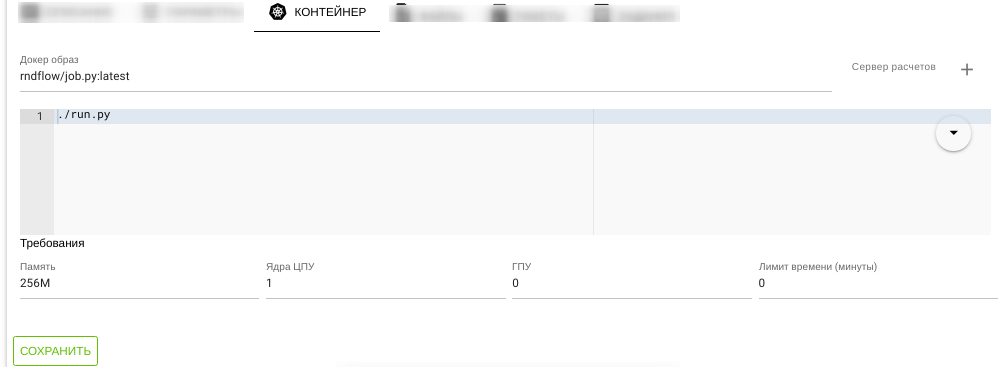
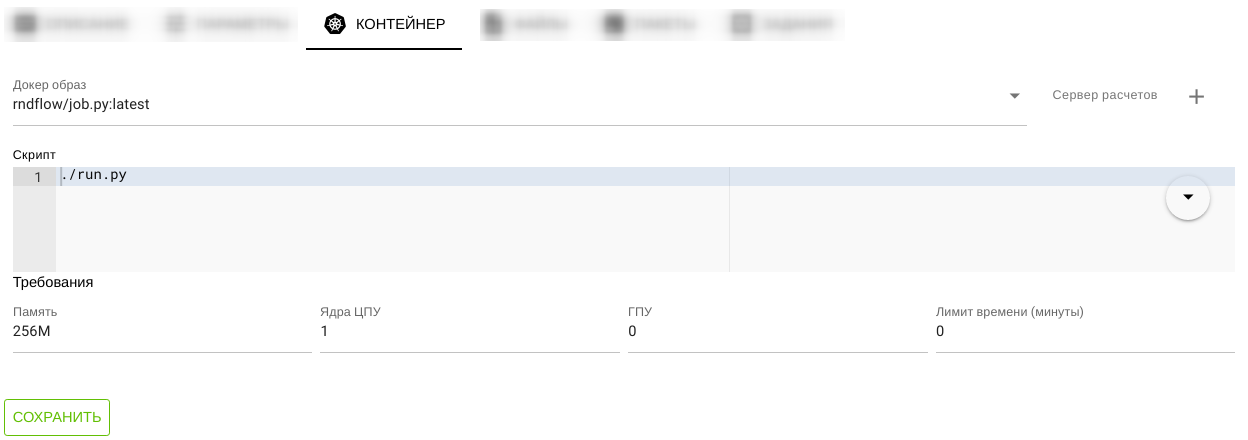
Add docker create instructions and description

diff --git a/src/.vuepress/config.js b/src/.vuepress/config.js
@@ -73,6 +73,7 @@ module.exports = {
             '/desc/project_user',
             '/desc/secrets',
             '/desc/api_keys',
+            '/desc/docker',
             '/desc/interface',
             '/desc/executor',
             '/desc/s3',
@@ -93,6 +94,7 @@ module.exports = {
             '/instructions/interface',
             '/instructions/executor',
             '/instructions/s3',
+            '/instructions/docker',
             '/instructions/payplan',
             '/instructions/video',
             '/instructions/examples',
@@ -111,10 +113,10 @@ module.exports = {
       {
         locales: {
           '/': {
-            placeholder: 'Поиск'
-          }
-        }
-      }
-    ]
-  ]
+            placeholder: 'Поиск',
+          },
+        },
+      },
+    ],
+  ],
 };

diff --git a/src/instructions/docker.md b/src/instructions/docker.md
@@ -1,0 +1,164 @@
+# Контейнеры
+
+## Создание Докер образа в рабочем пространстве
+
+Для создания [Докер образа][1] необходимо:
+
+- [Перейти][2] в [рабочее пространство][3]
+
+- Перейти на вкладку <span class='iconify-inline' data-icon='mdi:cogs'></span> **РЕСУРСЫ**
+
+  ![Docker images](/images/common/dashboard_user_workspace_resources_new.png)
+
+- Напротив надписи <span class="iconify-inline" data-icon="mdi:docker"></span> **Docker-образы** нажать на кнопку <span class="iconify-inline" data-icon="mdi:plus"></span> <span class='iconify-inline' data-icon='ph:number-circle-one-fill' style="color: red"></span> и далее набрать полное название Докер образа <span class='iconify-inline' data-icon='ph:number-circle-two-fill' style="color: red"></span>.
+
+  ![Docker image add](/images/common/dashboard_user_workspace_resources_add_docker.png)
+
+::: tip <span class='iconify' data-icon='mdi:information' style='color: #42b983; font-size: 24px;'></span>
+Примеры названий:
+
+- `docker.io/myrepo/myimagename:latest` - при размещении образа в общем реестре на [Dockerhub](https://hub.docker.com/)
+- `myrepo/myimagename:latest` - при размещении образа в общем реестре на [Dockerhub](https://hub.docker.com/)
+- `mycompanyregister.com/myrepo/myimagename:latest` - при размещении образа в собственном реестре
+  :::
+
+::: warning <span class='iconify' data-icon='emojione-v1:warning' style='color: #e7c000; font-size: 24px;'></span>
+При размещении образа на [Dockerhub](https://hub.docker.com/) или на собственном реестре необходимо предоставление публичных прав на чтение образа.
+:::
+
+::: tip <span class='iconify' data-icon='mdi:information' style='color: #42b983; font-size: 24px;'></span>
+В тестовых целях возможно использовать локальный публичный реестре платформы. В этом случае названия Докер образов будут иметь вид:
+
+`rep.rndflow.com/myrepo/myimagename:latest`
+:::
+
+::: danger <span class='iconify' data-icon='gg:danger' style='color: #cc0000; font-size: 24px;'></span>
+Для Докер образа действуют следующие правила:
+
+- Название образа должно быть уникальным для **всей** платформы.
+- Права пересборки образа имеет только владелец рабочего пространства, в котором он был создан.
+  :::
+
+- После нажатия кнопки будет создана [плитка][4] Докер образа
+  ![Docker image add](/images/common/dashboard_user_workspace_resources_docker_not_build.png)
+
+- После щелчка по плитке Докер образа будет открыто окно редактора
+
+  ![Docker image editor](/images/common/dashboard_user_workspace_resources_docker_editor_not_build.png)
+
+- В **Параметры сборки** выбрать **ЛОКАЛЬНАЯ ПАПКА**.
+
+- Ввести [команды создания образа][7] в редакторе **Dockerfile**.
+
+  Смотреть примеры в инструкции [Создание Докер образа вне платформы][5]
+
+- Нажать кнопку **СОХРАНИТЬ**.
+
+- Нажать кнопку **СОБРАТЬ**.
+
+- Ввести при необходимости логин и пароль к реестру (для публичного реестра платформы можно не вводить).
+
+  ![Docker image editor](/images/common/dashboard_user_workspace_resources_docker_editor_auth.png)
+
+- Нажать кнопку **СОБРАТЬ**.
+
+- Будет запущена сборка
+
+  ![Docker image build process](/images/common/dashboard_user_workspace_resources_docker_editor_build.png)
+
+- После успешного завершения редактор примет вид
+
+  ![Docker image editor after build](/images/common/dashboard_user_workspace_resources_docker_editor_аfter_build.png)
+
+- На вкладке <span class='iconify-inline' data-icon='mdi:cogs'></span> **РЕСУРСЫ** в разделе <span class="iconify-inline" data-icon="mdi:docker"></span> **Docker-образы** соответстующая плитка примет вид:
+
+  ![Docker image after build](/images/common/dashboard_user_workspace_resources_docker_after_build.png)
+
+  **Использование внешнего Git репозитория с файлами сборки**
+
+  - В **Параметры сборки** выбрать **GIT РЕПОЗИТОРИЙ**.
+  - Ввести URL публичного репозитория с файлами сборки Докер образа.
+  - Нажать кнопку **СОХРАНИТЬ**.
+  - Нажать кнопку **СОБРАТЬ**.
+
+  ![Docker image editor git context](/images/common/dashboard_user_workspace_resources_docker_editor_git.png)
+
+## Создание Докер образа вне платформы
+
+1. Зарегистрироваться на [публичном Докер реестре](https://hub.docker.com/).
+2. Создать новый репозиторий _imagename_
+
+   _imagename_ - произвольное название: mycoolimage или python-projectXX
+
+3. Установить [Докер приложение](https://www.docker.com/) на локальный компьютер. Пользователи Windows могут установливать [Docker Desktop](https://www.docker.com/products/docker-desktop).
+
+   Также можно использовать публичные сервисы работы с Докер образами, например [Play with Docker](https://labs.play-with-docker.com/).
+
+4. Создать новый _Dockerfile_ файл на основе [стандартных образов][6].
+
+   **Вариант 1**
+
+   Для создания собственного образа необходимо использовать базовый образ [rndflow/job.py](https://hub.docker.com/r/rndflow/job.py/tags?page=1&ordering=last_updated).
+
+   ```dockerfile:no-line-numbers
+   FROM docker.io/rndflow/job.py
+   RUN ...
+   COPY ...
+   ```
+
+   **Вариант 2**
+
+   В случае необходимости использовать образ операционной системы отличный от используемого в [rndflow/job.py](https://hub.docker.com/r/rndflow/job.py/tags?page=1&ordering=last_updated) необходимо самостоятельно устанавливать библиотекy [job.py](https://github.com/rndflow/rndflow-job-py). Также необходимо установить библиотеки moreutils,curl, zlib-dev, libjpeg-dev.
+
+   ```dockerfile:no-line-numbers
+   FROM ...
+   ...
+   RUN apt-get update && apt-get install -y moreutils curl zlib1g-dev libjpeg-dev
+   RUN cd /opt/ && curl -L https://github.com/rndflow/rndflow-job-py/archive/refs/heads/master.tar.gz | tar -xvz && \
+   pip3 install -r rndflow-job-py-master/requirements.txt && pip3 install ./rndflow-job-py-master && rm -rf rndflow-job-py-master
+   ...
+   ```
+
+   Если при этом требуется поддержка интерактивного сервера [Jupyter](https://jupyter.org/), то необходимо установить:
+
+   ```dockerfile:no-line-numbers
+   RUN pip3 install notebook jupytext
+   ```
+
+   **Вариант 3**
+
+   Если требуется поддержка счета на AMD или NVIDIA GPU картах, то необходимо использовать соответствующие базовые образы.
+
+5. Собрать образ из _Dockerfile_ (если используется _podman_, то заменить _docker_ на _podman_).
+
+   В папке с _Dockerfile_: `docker build -t user/imagename:1.0 .` или `docker build -t user/imagename:1.0 -f _Dockerfile_ .`
+
+   Здесь _user/imagename_ - пользователь реестра/название образа (репозитория реестра из пункта _2_ ), _:1.0_ - версия.
+
+   ::: warning <span class="iconify" data-icon="emojione-v1:warning" style="color: #e7c000; font-size: 24px;"></span>
+   При пересборке образа без изменения _Dockerfile_ файла необходимо очистить кеш предыдущей сборки. Например, можно удалить последний образ: `docker rmi user/imagename:1.0`
+
+   или осуществлять сборку без использования кеша: `docker build -t user/imagename:1.0 . --no-cache`
+   :::
+
+6. Проверить появление образа: `docker image ls`
+7. Тестовый запуск: `docker run -it --rm imagename`
+8. Загрузить новый образ на [публичный Докер реестр](https://hub.docker.com/)
+
+   - Подключиться к реестру : `docker login -u user -p **********`
+
+     или чтобы не оставлять пароль в истории команд : `docker login -u user`
+
+   - Загрузить образ в реестр: `docker push user/imagename:1.0`
+
+9. Если необходимо удалить ошибочно загруженный образ из реестра: [Инструкция удаления образа](https://stackoverflow.com/questions/30680703/remove-an-image-tag-from-docker-hub/60112300#60112300)
+
+10. Если сборка идет на стороннем сервисе, то рекомендуется отсоединиться от реестра: `docker logout`
+
+[1]: /docs/desc/docker.md
+[2]: /docs/instructions/workspace.html#переход-в-рабочее-пространство
+[3]: /docs/desc/workspace.md
+[4]: /docs/desc/docker.md#плитка
+[5]: #создание-докер-образа-вне-платформы
+[6]: /docs/dev/docker.md
+[7]: https://docs.docker.com/engine/reference/builder/

diff --git a/src/desc/docker.md b/src/desc/docker.md
@@ -1,0 +1,83 @@
+# Контейнеры
+
+Платформа поддерживает возможность создания и пересборка Докер образов ([Docker images][1]).
+
+Докер образы создаются на кластере платформы и могут быть загружены на внешние реестры ([registries][1]) и внутрение реестры.
+
+Докер образы относятся к [рабочему пространству][2].
+
+::: danger <span class='iconify' data-icon='gg:danger' style='color: #cc0000; font-size: 24px;'></span>
+Для Докер образа действуют следующие правила:
+
+- Название образа должно быть уникальным для **всей** платформы.
+- Права пересборки образа имеет только владелец рабочего пространства, в котором он был создан.
+  :::
+
+Управление Докер образами происходит на вкладке <span class='iconify-inline' data-icon='mdi:cogs'></span> **РЕСУРСЫ** в разделе <span class="iconify-inline" data-icon="mdi:docker"></span> **Docker-образы** соответствующего рабочего пространства.
+
+![Docker images list](/images/common/dashboard_user_workspace_resources_dockers.png)
+
+Использование Докер образа происходит на вкладке <span class='iconify-inline' data-icon='mdi:kubernetes'></span> [**КОНТЕЙНЕР**][3] панели [расчетного узла][4] в выпадающем списке параметра **Докер образ**.
+
+![Docker images list](/images/common/node_panel_container_dockerslist.png)
+
+## Плитка
+
+![Docker image after build](/images/common/dashboard_user_workspace_resources_docker_after_build.png)
+
+Структура:
+
+- Статус сборки
+  - <span class='iconify-inline' data-icon='mdi:check-circle' style='color: green'></span> - последние изменения образа собраны
+  - <span class='iconify-inline' data-icon='mdi:alert-circle' style='color: red'></span> - образ не собран
+  - <span class='iconify-inline' data-icon='mdi:update' style='color: orange'></span> - образ был изменен после сборки и после этого не было успешных сборок
+- Название образа
+- Описание образа
+- <span class='iconify-inline' data-icon='mdi:delete'></span> Кнопка удаления
+
+## Редактор
+
+Редактор открывается по щелчку по плитке Докер образа.
+
+![Docker image editor after build](/images/common/dashboard_user_workspace_resources_docker_editor_аfter_build.png)
+
+Структура
+
+- Редактируемое название образа
+- <span class='iconify-inline' data-icon='mdi:delete'></span> Кнопка удаления образа
+- Редактируемое описание образа
+- Статус
+  - <span class='iconify-inline' data-icon='mdi:check-circle' style='color: green'></span> - последние изменения образа собраны
+  - <span class='iconify-inline' data-icon='mdi:alert-circle' style='color: red'></span> - образ не собран
+  - <span class='iconify-inline' data-icon='mdi:update' style='color: orange'></span> - образ был изменен после сборки и после этого не было успешных сборок
+- История изменений образа
+  - Создан - автор и время создания
+  - Изменен - автор и время последних изменений (кода в редакторе образа)
+  - Собран - автор и время последней успешной сборки
+- Параметры сборки
+  - Контекст сборки
+    - ЛОКАЛЬНАЯ ПАПКА - использовать для сборки данные текущего редактора Dockerfile.
+    - GIT РЕПОЗИТОРИЙ - использовать для сборки данные из GIT репозитория.
+  - Dockerfile - редактора кода создания Докер образа
+- Кнопка "СОХРАНИТЬ" - сохранение изменений в редакторе
+- Кнопка "СОБРАТЬ" - сборка Докер образа
+- Журнал сборок и <span class='iconify-inline' data-icon='mdi:refresh'></span> кнопка обновления журнала - история сборок Докер образа
+
+  - <span class='iconify-inline' data-icon='mdi:menu-down'></span> - открыть журнал сборки
+  - Начало - время начала сборки
+  - Статус - статус завершения
+    - <span class='iconify-inline' data-icon='vaadin:progressbar' style='color: green'></span> - в процессе сборки
+    - <span class='iconify-inline' data-icon='mdi:alert-circle' style='color: red'></span> - образ не собран
+    - <span class='iconify-inline' data-icon='mdi:check-circle' style='color: green'></span> -последние изменения образа собраны
+  - Длительность сборки
+
+  При изменении контекста сборки на **GIT РЕПОЗИТОРИЙ** отображается:
+
+  - URL - публичный репозиторий с файлами сборки Докер образа.
+
+  ![Docker image editor git context](/images/common/dashboard_user_workspace_resources_docker_editor_git.png)
+
+[1]: https://docs.docker.com/get-started/overview/
+[2]: /docs/desc/workspace.md
+[3]: /docs/desc/nodes.md#контеинер
+[4]: /docs/desc/nodes.md#расчетныи-узел

diff --git a/src/dev/docker.md b/src/dev/docker.md
@@ -52,75 +52,3 @@
 - [rndflow/pyopencl-amd-job.py](https://hub.docker.com/r/rndflow/pyopencl-amd-job.py/tags?page=1&ordering=last_updated) - образ c поддержкой библиотеки [PyOpenCL](https://documen.tician.de/pyopencl/).
 
   Репозиторий доступен по [ссылке](https://github.com/rndflow/rndflow-images/tree/main/gpu/pyopencl-amd).
-
-## Создание Докер образа
-
-1. Зарегистрироваться на [публичном Докер регистре](https://hub.docker.com/).
-2. Создать новый репозиторий _imagename_
-
-   _imagename_ - произвольное название: mycoolimage или python-projectXX
-
-3. Установить [Докер приложение](https://www.docker.com/) на локальный компьютер. Пользователи Windows могут установливать [Docker Desktop](https://www.docker.com/products/docker-desktop).
-
-   Также можно использовать публичные сервисы работы с Докер образами, например [Play with Docker](https://labs.play-with-docker.com/).
-
-4. Создать новый _Dockerfile_ файл на основе стандартных образов.
-
-   **Вариант 1**
-
-   Для создания собственного образа необходимо использовать базовый образ [rndflow/job.py](https://hub.docker.com/r/rndflow/job.py/tags?page=1&ordering=last_updated).
-
-   ```dockerfile:no-line-numbers
-   FROM docker.io/rndflow/job.py
-   RUN ...
-   COPY ...
-   ```
-
-   **Вариант 2**
-
-   В случае необходимости использовать образ операционной системы отличный от используемого в [rndflow/job.py](https://hub.docker.com/r/rndflow/job.py/tags?page=1&ordering=last_updated) необходимо самостоятельно устанавливать библиотекy [job.py](https://github.com/rndflow/rndflow-job-py). Также необходимо установить библиотеки moreutils,curl, zlib-dev, libjpeg-dev.
-
-   ```dockerfile:no-line-numbers
-   FROM ...
-   ...
-   RUN apt-get update && apt-get install -y moreutils curl zlib1g-dev libjpeg-dev
-   RUN cd /opt/ && curl -L https://github.com/rndflow/rndflow-job-py/archive/refs/heads/master.tar.gz | tar -xvz && \
-   pip3 install -r rndflow-job-py-master/requirements.txt && pip3 install ./rndflow-job-py-master && rm -rf rndflow-job-py-master
-   ...
-   ```
-
-   Если при этом требуется поддержка интерактивного сервера [Jupyter](https://jupyter.org/), то необходимо установить:
-
-   ```dockerfile:no-line-numbers
-   RUN pip3 install notebook jupytext
-   ```
-
-   **Вариант 3**
-
-   Если требуется поддержка счета на AMD или NVIDIA GPU картах, то необходимо использовать соответствующие базовые образы.
-
-5. Собрать образ из _Dockerfile_ (если используется _podman_, то заменить _docker_ на _podman_).
-
-   В папке с _Dockerfile_: `docker build -t user/imagename:1.0 .` или `docker build -t user/imagename:1.0 -f _Dockerfile_ .`
-
-   Здесь _user/imagename_ - пользователь*регистра/название*образа (репозитория регистра из пункта _2_ ), _:1.0_ - версия.
-
-   ::: warning <span class="iconify" data-icon="emojione-v1:warning" style="color: #e7c000; font-size: 24px;"></span>
-   При пересборке образа без изменения _Dockerfile_ файла необходимо очистить кеш предыдущей сборки. Например, можно удалить последний образ: `docker rmi user/imagename:1.0`
-
-   или осуществлять сборку без использования кеша: `docker build -t user/imagename:1.0 . --no-cache`
-   :::
-
-6. Проверить появление образа: `docker image ls`
-7. Тестовый запуск: `docker run -it --rm imagename`
-8. Загрузить новый образ на [публичный Докер регистр](https://hub.docker.com/)
-
-   - Подключиться к регистру : `docker login -u user -p **********`
-
-     или чтобы не оставлять пароль в истории команд : `docker login -u user`
-
-   - Загрузить образ в регистр: `docker push user/imagename:1.0`
-
-9. Если необходимо удалить ошибочно загруженный образ из регистра: [Инструкция удаления образа](https://stackoverflow.com/questions/30680703/remove-an-image-tag-from-docker-hub/60112300#60112300)
-
-10. Если сборка идет на стороннем сервисе, то рекомендуется отлогиниться от регистра: `docker logout`

diff --git a/src/desc/nodes.md b/src/desc/nodes.md
@@ -149,14 +149,17 @@
 
 Cтруктура:
 
-- Докер образ - название докер образа
+- Докер образ - название докер образа и список [докер образов][7] рабочего пространства
+
+  ![Docker images list](/images/common/node_panel_container_dockerslist.png)
+
 - Сервер расчетов - индивидуальный сервер расчета (исполнитель) узла
 
   ::: tip <span class="iconify" data-icon="mdi:information" style="color: #42b983; font-size: 24px;"></span>
   Выбор происходит по нажатия кнопки <span class="iconify-inline" data-icon="mdi:plus"></span>
   :::
 
-- Главные программный модуль узла - первоначально запускаемый программный модуль или скрипт (см. [Файлы](#фаилы)).
+- Скрипт - первоначально запускаемый программный модуль или скрипт узла (см. [Файлы](#фаилы)).
   ::: tip <span class="iconify" data-icon="mdi:information" style="color: #42b983; font-size: 24px;"></span>
   Запуск должен соответствовать правила запуска в shell-среде ОС Linux.
 
@@ -451,3 +454,4 @@ Cтруктура:
 [4]: /docs/desc/package.md
 [5]: /docs/desc/job.md
 [6]: /docs/desc/job.md#состояния
+[7]: /docs/desc/docker.md
